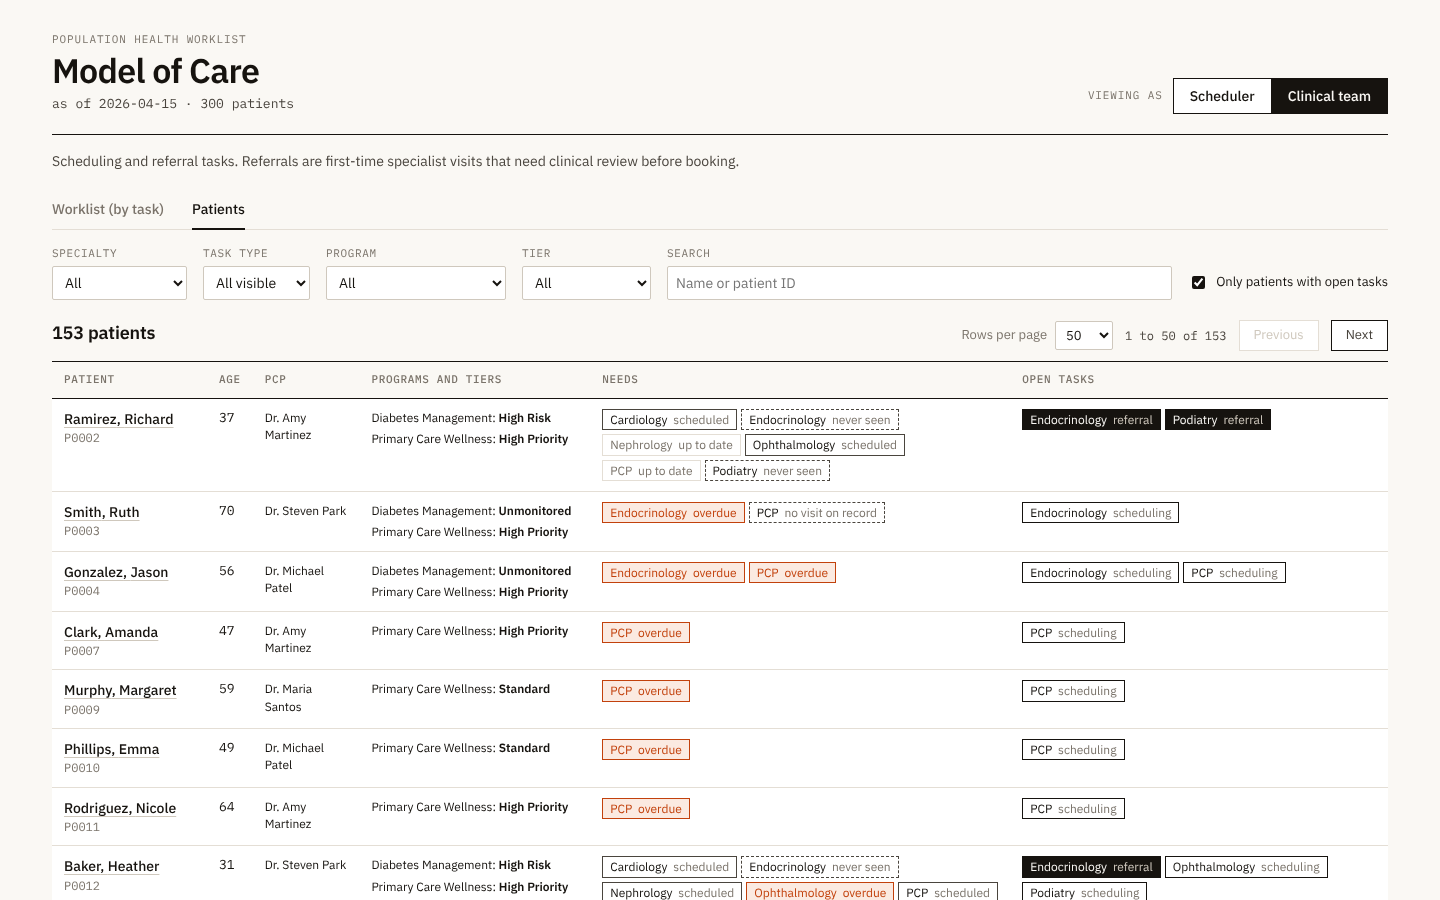
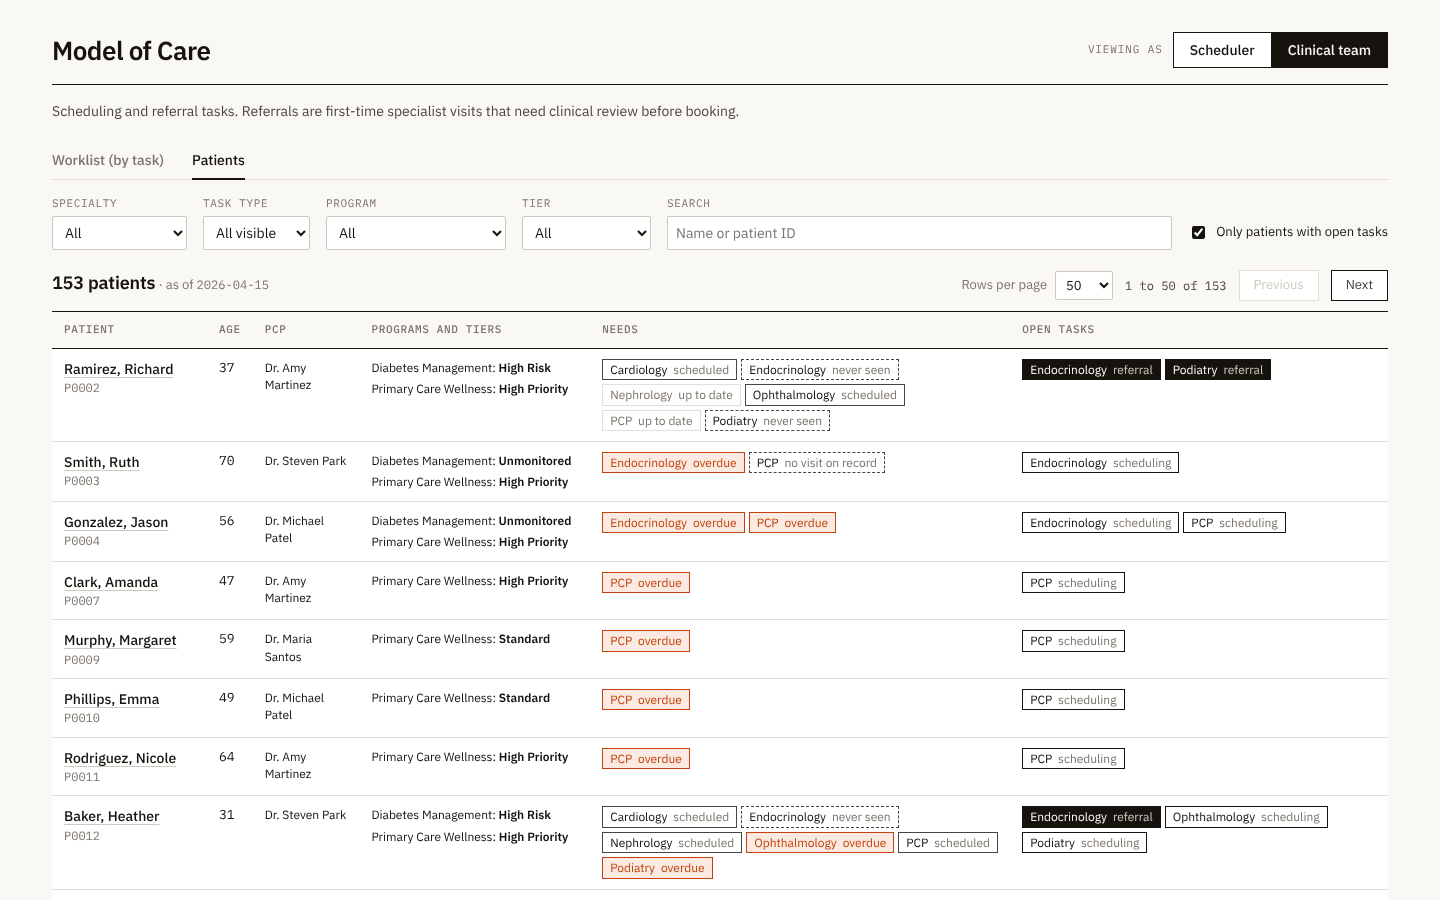
Slim the header to one row; show the as-of date on the results line
Drops the overline and patient count, shrinks the title to sit level
with the role toggle, and moves the as-of date next to the task and
patient counts it qualifies.

diff --git a/frontend/src/App.tsx b/frontend/src/App.tsx
@@ -37,6 +37,7 @@ function Main({ meta }: { meta: Meta }) {
   const view: ViewProps = {
     role: ui.role,
     filters: { ...ui.filters, search },
+    asOf: meta.run.as_of,
     limit: ui.pageSize,
     offset: ui.offset,
     onOffset: (offset) => setUi((s) => ({ ...s, offset })),
@@ -51,13 +52,7 @@ function Main({ meta }: { meta: Meta }) {
   return (
     <div className="app">
       <header>
-        <div>
-          <div className="overline">Population health worklist</div>
-          <h1>Model of Care</h1>
-          <div className="meta mono" title={`Rules version ${meta.run.rules_version}`}>
-            as of {meta.run.as_of} · {meta.run.patients_evaluated} patients
-          </div>
-        </div>
+        <h1>Model of Care</h1>
         <div className="role">
           <span className="muted small">Viewing as</span>
           <div className="segmented" role="group" aria-label="Role">
@@ -106,6 +101,7 @@ function Main({ meta }: { meta: Meta }) {
 interface ViewProps {
   role: Role;
   filters: Filters;
+  asOf: string;
   limit: number;
   offset: number;
   onOffset: (offset: number) => void;
@@ -119,7 +115,7 @@ interface SortProps {
   onSort: (key: SortKey) => void;
 }
 
-function WorklistView({ role, filters, limit, offset, onOffset, onLimit, onOpenPatient, sort, order, onSort }: ViewProps & SortProps) {
+function WorklistView({ role, filters, asOf, limit, offset, onOffset, onLimit, onOpenPatient, sort, order, onSort }: ViewProps & SortProps) {
   const { data, error, loading } = useAsync(
     (signal) => api.tasks(role, filters, { sort, order, limit, offset }, signal),
     [role, JSON.stringify(filters), sort, order, limit, offset],
@@ -128,7 +124,7 @@ function WorklistView({ role, filters, limit, offset, onOffset, onLimit, onOpenP
     <div className={`results ${loading ? "loading" : ""}`}>
       {error && <p className="error">{error}</p>}
       {data && (
-        <Results total={data.total} limit={limit} noun="open task" pager={<Pager {...data} onOffset={onOffset} onLimit={onLimit} />}>
+        <Results total={data.total} limit={limit} asOf={asOf} noun="open task" pager={<Pager {...data} onOffset={onOffset} onLimit={onLimit} />}>
           <WorklistTable items={data.items} sort={sort} order={order} onSort={onSort} onOpenPatient={onOpenPatient} />
         </Results>
       )}
@@ -136,7 +132,7 @@ function WorklistView({ role, filters, limit, offset, onOffset, onLimit, onOpenP
   );
 }
 
-function PatientsView({ role, filters, limit, offset, onOffset, onLimit, onOpenPatient, hasTasks }: ViewProps & { hasTasks: boolean }) {
+function PatientsView({ role, filters, asOf, limit, offset, onOffset, onLimit, onOpenPatient, hasTasks }: ViewProps & { hasTasks: boolean }) {
   const { data, error, loading } = useAsync(
     (signal) => api.patients(role, filters, { hasTasks, limit, offset }, signal),
     [role, JSON.stringify(filters), limit, offset, hasTasks],
@@ -145,7 +141,7 @@ function PatientsView({ role, filters, limit, offset, onOffset, onLimit, onOpenP
     <div className={`results ${loading ? "loading" : ""}`}>
       {error && <p className="error">{error}</p>}
       {data && (
-        <Results total={data.total} limit={limit} noun="patient" pager={<Pager {...data} onOffset={onOffset} onLimit={onLimit} />}>
+        <Results total={data.total} limit={limit} asOf={asOf} noun="patient" pager={<Pager {...data} onOffset={onOffset} onLimit={onLimit} />}>
           <PatientsTable items={data.items} onOpenPatient={onOpenPatient} />
         </Results>
       )}
@@ -154,13 +150,19 @@ function PatientsView({ role, filters, limit, offset, onOffset, onLimit, onOpenP
 }
 
 /** Count and pager above the table; the pager repeats below it when there is more than one page. */
-function Results(props: { total: number; limit: number; noun: string; pager: ReactNode; children: ReactNode }) {
-  const { total, limit, noun, pager, children } = props;
+function Results(props: { total: number; limit: number; asOf: string; noun: string; pager: ReactNode; children: ReactNode }) {
+  const { total, limit, asOf, noun, pager, children } = props;
   if (total === 0) return <>{children}</>;
   return (
     <>
       <div className="results-head">
-        <div className="count">{`${total} ${noun}${total === 1 ? "" : "s"}`}</div>
+        <div className="count">
+          {`${total} ${noun}${total === 1 ? "" : "s"}`}
+          <span className="as-of">
+            {" "}
+            · as of <span className="mono">{asOf}</span>
+          </span>
+        </div>
         {pager}
       </div>
       {children}

diff --git a/frontend/src/styles.css b/frontend/src/styles.css
@@ -38,12 +38,10 @@ button { font: inherit; color: inherit; cursor: pointer; }
 /* Layout */
 .app { max-width: 1400px; margin: 0 auto; padding: 32px 32px 64px; }
 
-header { display: flex; justify-content: space-between; align-items: flex-end; gap: 24px; flex-wrap: wrap; padding-bottom: 20px; border-bottom: 1px solid var(--ink); }
-.overline { font-family: var(--mono); font-size: 11px; letter-spacing: 0.08em; text-transform: uppercase; color: var(--muted); }
-h1 { font-size: 34px; font-weight: 600; letter-spacing: -0.02em; line-height: 1.1; margin: 4px 0 6px; }
+header { display: flex; justify-content: space-between; align-items: center; gap: 24px; flex-wrap: wrap; padding-bottom: 16px; border-bottom: 1px solid var(--ink); }
+h1 { font-size: 26px; font-weight: 600; letter-spacing: -0.02em; line-height: 1.1; margin: 0; }
 h2 { font-size: 20px; font-weight: 600; letter-spacing: -0.01em; margin: 0 0 4px; }
 h3 { font-family: var(--mono); font-size: 11px; font-weight: 500; text-transform: uppercase; letter-spacing: 0.08em; color: var(--muted); margin: 24px 0 8px; }
-.meta { color: var(--ink-2); }
 
 .role { display: flex; align-items: center; gap: 10px; }
 .role > .small { font-family: var(--mono); text-transform: uppercase; letter-spacing: 0.08em; font-size: 11px; }
@@ -81,6 +79,7 @@ button.link:hover { text-decoration-color: var(--ink); }
 .results.loading { opacity: 0.5; }
 .results-head { display: flex; justify-content: space-between; align-items: baseline; gap: 12px; flex-wrap: wrap; margin-bottom: 10px; }
 .count { font-size: 18px; font-weight: 600; letter-spacing: -0.01em; }
+.count .as-of { font-size: 13px; font-weight: 400; letter-spacing: 0; color: var(--muted); }
 .results-foot { margin-top: 14px; }
 
 .pager { display: flex; align-items: center; gap: 12px; justify-content: flex-end; font-size: 13px; color: var(--ink-2); }
